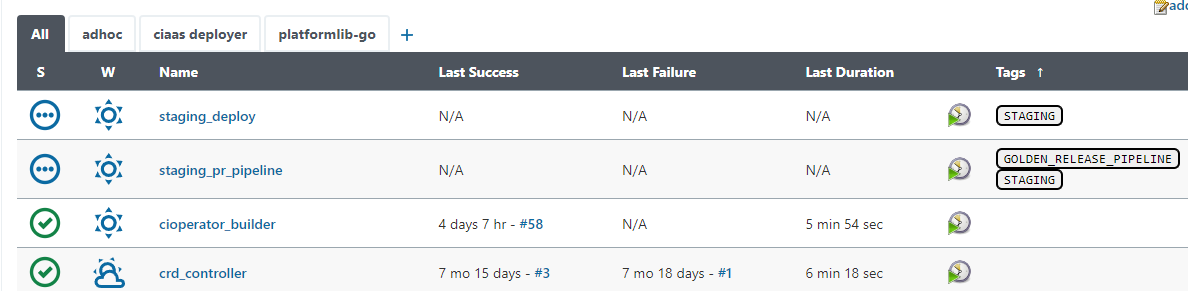
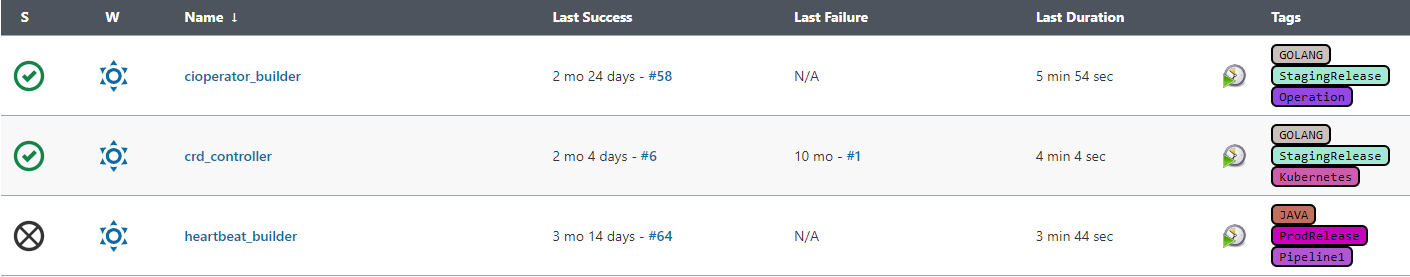
updatedoc

diff --git a/src/main/java/io/jenkins/plugins/jobtag/JobTagPublisher.kt b/src/main/java/io/jenkins/plugins/jobtag/JobTagPublisher.kt
@@ -50,8 +50,8 @@ constructor() : JobProperty<Job<*, *>>() {
             val configure = TagConfigure.get()
             for (tag in tpp.tags) {
                 tag.value = if (configure.isCaseSenstive) tag.value else tag.value!!.toUpperCase()
-                colorStack.putIfAbsent(tag.value!!, "#" + (Random().nextInt(8388607) + 8388607).toString(16))
-                tag.color = colorStack.getOrDefault(tag.value!!, "#FFFFFF")
+                colorStack.putIfAbsent(tag.value!!, if (configure.disableColor) JobTag.DEFAULT_COLOR else "#" + (Random().nextInt(8388607) + 8388607).toString(16))
+                tag.color = if (configure.disableColor) JobTag.DEFAULT_COLOR else colorStack.getOrDefault(tag.value!!, JobTag.DEFAULT_COLOR)
             }
 
             return tpp

diff --git a/src/main/java/io/jenkins/plugins/jobtag/TagConfigure.kt b/src/main/java/io/jenkins/plugins/jobtag/TagConfigure.kt
@@ -22,6 +22,11 @@ class TagConfigure : GlobalConfiguration(), PersistentDescriptor {
     @set:Synchronized
     var isCaseSenstive = false
 
+    @get:Synchronized
+    @set:DataBoundSetter
+    @set:Synchronized
+    var disableColor = false
+
     override fun configure(req: StaplerRequest, json: JSONObject?): Boolean {
         try {
             BulkChange(this).use { bc ->
@@ -43,6 +48,7 @@ class TagConfigure : GlobalConfiguration(), PersistentDescriptor {
         val file = configFile
         if (!file.exists()) {
             isCaseSenstive = false
+            disableColor = false
         } else {
             super.load()
         }

diff --git a/src/main/java/io/jenkins/plugins/jobtag/JobTag.kt b/src/main/java/io/jenkins/plugins/jobtag/JobTag.kt
@@ -12,7 +12,7 @@ class JobTag @DataBoundConstructor
 constructor(@set:DataBoundSetter
             var value: String?) : AbstractDescribableImpl<JobTag>(), Serializable {
 
-    var color = "#FFFFFF"
+    var color = DEFAULT_COLOR
 
     override fun equals(o: Any?): Boolean {
         if (this === o) return true
@@ -38,6 +38,7 @@ constructor(@set:DataBoundSetter
     companion object {
 
         private const val serialVersionUID = -5667326362260252552L
+        const val DEFAULT_COLOR = "#FFFFFF"
     }
 
 }

diff --git a/README.md b/README.md
@@ -13,6 +13,8 @@ Job tag plugin is one simple plugin to help user to add multiple tags to job con
 - Integration: Other systems could get job list based on tag query, provided sample script
 GitHub users to have commit permission
 
+![](images/listview.png)
+  
 ### Configuration
 
 - Click "Edit Job Tags" and "Add New Tags" button will appear.
@@ -23,9 +25,9 @@ GitHub users to have commit permission
 
   ![](images/edittag2.png)
 
-- Then you can view job tags in main view.
+- You may customize tag UI options in global configuration
 
-  ![](images/listview.png)
+  ![](images/option.png)
 
 ### Filter jobs by tags by running script in console or remote execute
 
